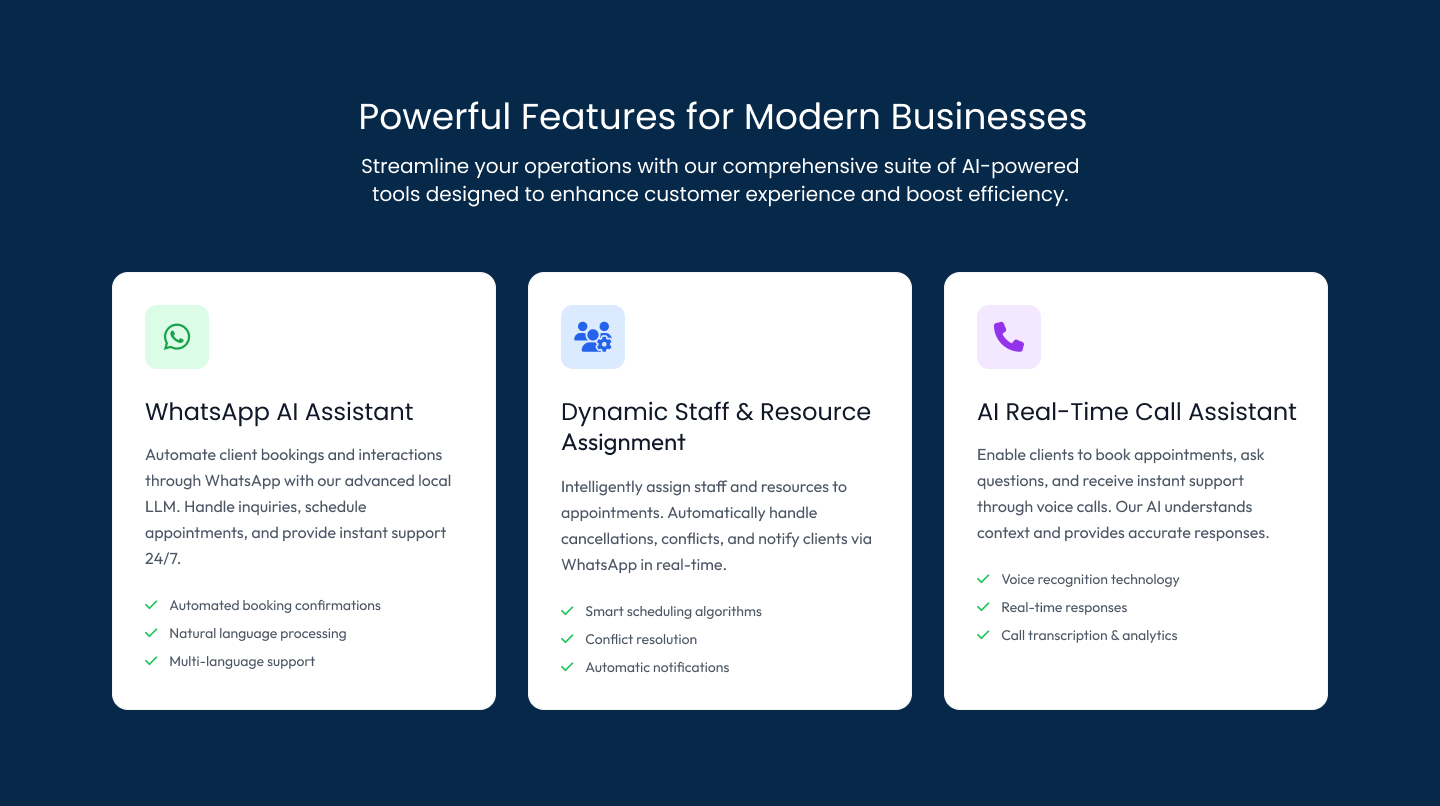
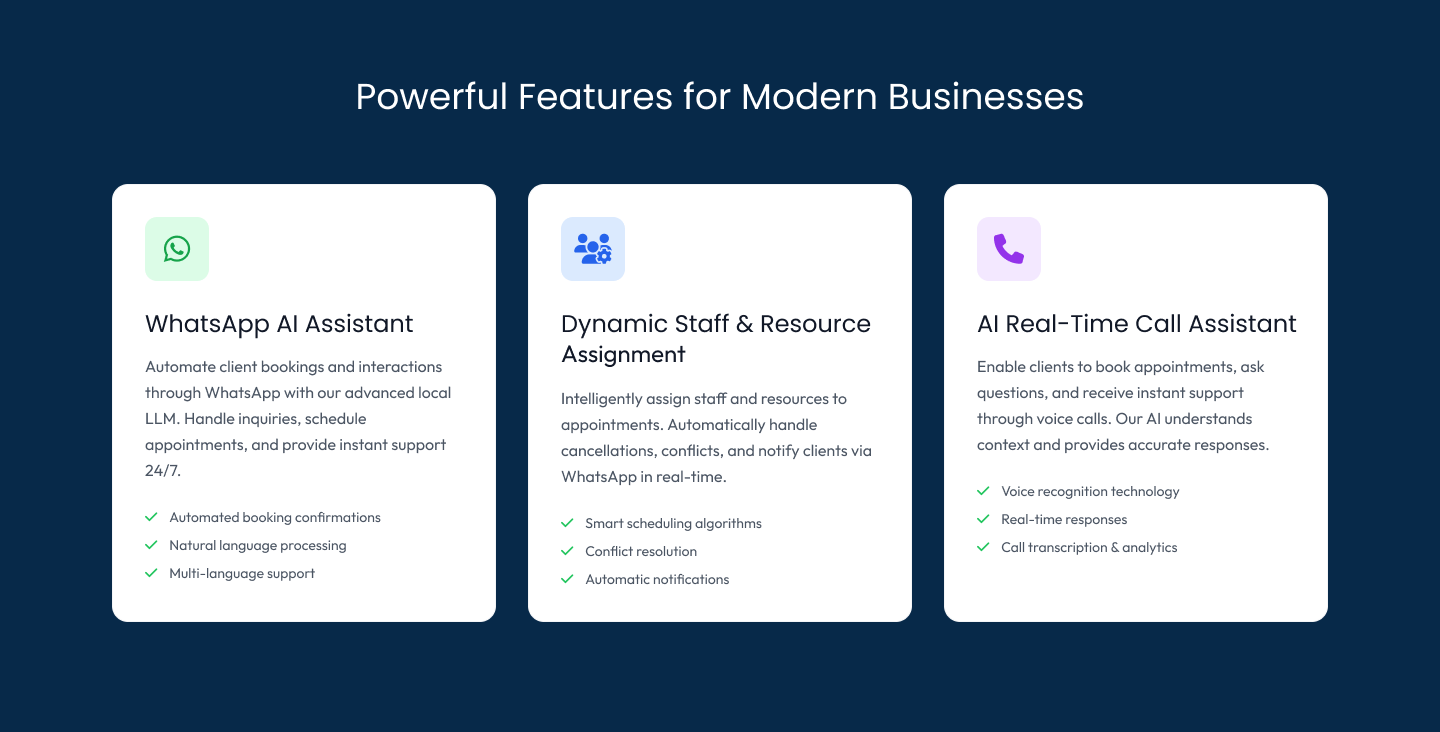
fix: Replaced text with daigrams

Changed region(s): [[0.0625, 0.1202, 0.9375, 0.9016], [0.6562, 0.4809, 0.9062, 0.8115], [0.6875, 0.3907, 0.9062, 0.4508]]

diff --git a/README.md b/README.md
@@ -38,7 +38,7 @@
 
 ### Component Diagram
 
- ![Component Diagram](./readme/daigrams/Component-daigram.png) 
+<img src="./readme/daigrams/Component-daigram.png" alt="Component Diagram" width="600"/> 
 
 ### ER Diagram
 
@@ -124,78 +124,10 @@ php artisan test
 
 The AI Agent is like a smart digital assistant that understands what customers want when they send messages or make voice calls to book appointments. It acts like a knowledgeable employee who can instantly help customers 24/7.
 
-### How It Works: Step by Step
-
-**1. Customer Input (What Goes In)**
-	- Text Messages: "I want a haircut tomorrow at 3pm"
-	- Voice Calls: Customer speaks their request over the phone
-	- Questions: "What services do you offer?" or "What are your hours?"
-
-**2. Understanding Phase (What the AI Thinks About)**
-	- What does this customer want?
-		- Are they trying to book an appointment?
-		- Are they asking a question about services?
-		- Do they want to cancel or reschedule?
-	- What specific details did they mention?
-		- Which service? (haircut, facial, massage)
-		- What date? (tomorrow, Monday, next week)
-		- What time? (3pm, morning, afternoon)
-
-**3. Decision Making (What the AI Decides)**
-	- If it's a booking request:
-		- Check if the requested service exists
-		- See if the time slot is available
-		- Find the right staff member
-		- Create the appointment
-	- If it's a question:
-		- Look up business information (hours, services, prices)
-		- Provide helpful answers using the business details
-	- If something is unclear:
-		- Ask follow-up questions to get missing information
-
-**4. Taking Action (What the AI Does)**
-	- For Bookings:
-		- Creates the appointment in the system
-		- Assigns the right staff member
-		- Blocks the time slot so no one else can book it
-	- For Questions:
-		- Gathers the relevant business information
-		- Prepares a helpful response
-
-**5. Response Generation (What the AI Says Back)**
-	- The AI creates personalized responses that match the business's style:
-		- **Booking Confirmation:**
-			> "Great! I've booked your haircut with Sarah for tomorrow at 3:00 PM. We're excited to see you! 💇♂"
-		- **Information Response:**
-			> "We offer haircuts ($25), beard trims ($15), and styling ($35). Our hours are 9 AM - 6 PM, Monday through Saturday. What would you like to book?"
-		- **Problem Response:**
-			> "I'm sorry, 3 PM tomorrow is already taken. How about 2:30 PM or 4:00 PM instead?"
-
----
-
-### Real Example: Customer Journey
-
-**Customer sends:**
-> "Book me for a facial next Tuesday at 11am"
-
-**AI Understands:** This is a booking request for facial service, Tuesday, 11:00 AM
-**AI Checks:** Is facial service available? Is Tuesday 11 AM free? Who can do facials?
-**AI Finds:** Facial service exists, time is available, Sarah can do it
-**AI Books:** Creates appointment: Tuesday 11 AM, Facial with Sarah
-**AI Responds:**
-> "Perfect! Your facial is booked with Sarah for Tuesday at 11:00 AM. Can't wait to help you relax and rejuvenate! ✨"
-
----
+![How It Works](./readme/Demo/how-it-works.png) 
 
 ### Why This Matters for Businesses
-
-- **24/7 Availability:** Customers can book anytime, even when the business is closed
-- **Instant Responses:** No waiting on hold or for callbacks
-- **Fewer Mistakes:** AI doesn't forget details or double-book appointments
-- **Better Customer Experience:** Friendly, consistent service every time
-- **Time Savings:** Staff can focus on providing services instead of answering phones
-
-The AI Agent essentially acts like having a perfect receptionist who never sleeps, never gets confused, and always knows exactly what services are available and when.
+ ![Why This Matters](./readme/Demo/why-matters.png) 
 
 <!-- Deployment -->
 <img src="./readme/title7.svg"/>
